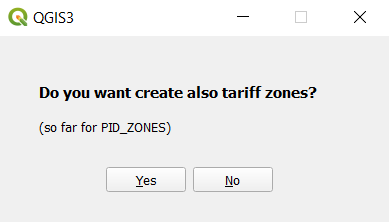
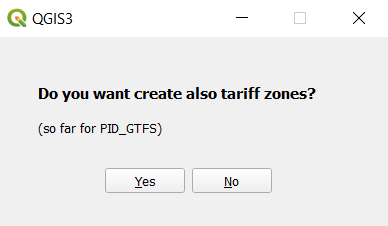
oprava chyb

diff --git a/text/5-postup.tex b/text/5-postup.tex
@@ -30,7 +30,7 @@ Zobrazení postupu bylo implementováno do lišty zpráv systému QGIS spolu s c
 Při myšlenkách, jak se k tvorbě tarifních pásem postavit,
 se naskytla možnost to vypracovat pomocí Grafického modeláře, který je zabudovaný v systému QGIS. 
 Kvůli omezeným možnostem úprav nástrojů se z těchto myšlenek upustilo a začal se tvořit postup
-na "čístý" Python skript pomocí QGIS nástrojů. I přes to, že lze z Grafického modeláře exportovat skript. 
+do "čístého" Python skriptu pomocí QGIS nástrojů i přes to, že lze z Grafického modeláře exportovat skript. 
 
 Pro použití QGIS nástrojů v Python skriptu je potřeba importovat modul \textit{processing},
 který má funkci \textit{run}, do které se vkládají dva parametry. První parametr je ID nástroje
@@ -41,9 +41,10 @@ z QGIS dokumentace. \cite{QGIS_docs}
 
 Aby se mohl uživatel mohl rozhodnout při jeho používání pluginu, či chce vytvářet tarifní pásma nebo ne, bylo vytvořeno
 dialogové okno pomocí PyQt (viz obrázek \ref{fig:dialog}). Toto dialogové okno se vždy zobrazí po stisknutí tlačítka
-\textit{Load} pro načtení GTFS souboru. Jak je v závorce napsáno, tvorba tarifních pásem je zatím jen pro PID\_GTFS.
+\textit{Load} pro načtení GTFS ZIP souboru. Jak je v závorce napsáno, tvorba tarifních pásem je zatím jen pro GTFS
+dataset PID\_GTFS.
 Tvorba tarifních pásem pro ostatní GTFS soubory může být jako námět pro další závěrečné práce nebo ho mohou dobrovolně
-vypracovat uživatelé Githubu.
+vypracovat uživatelé služby GitHub.
 
 Ovládání dialogového okna je jednoduché. Disponuje běžnými tlačítky pro minimalizaci okna a vypnutí okna, což mimochodem
 zruší kompletně proces načítání GTFS souboru. Mimo to tu jsou dvě tlačítka Yes/No, které buďto povolí vytváření tarifních
